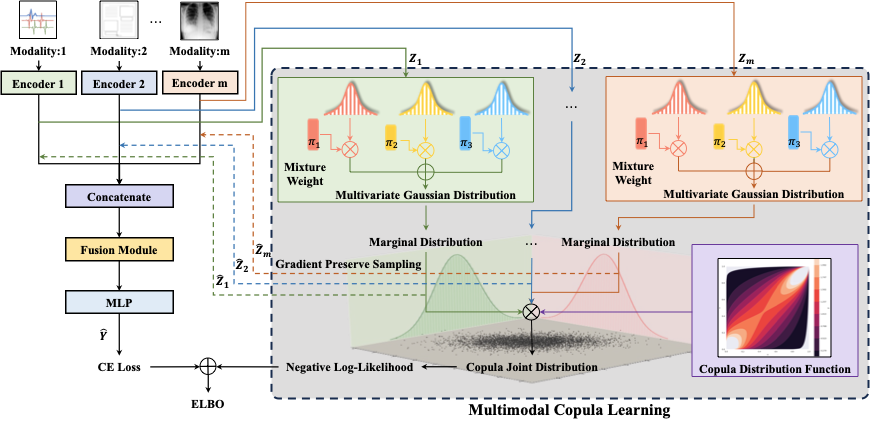
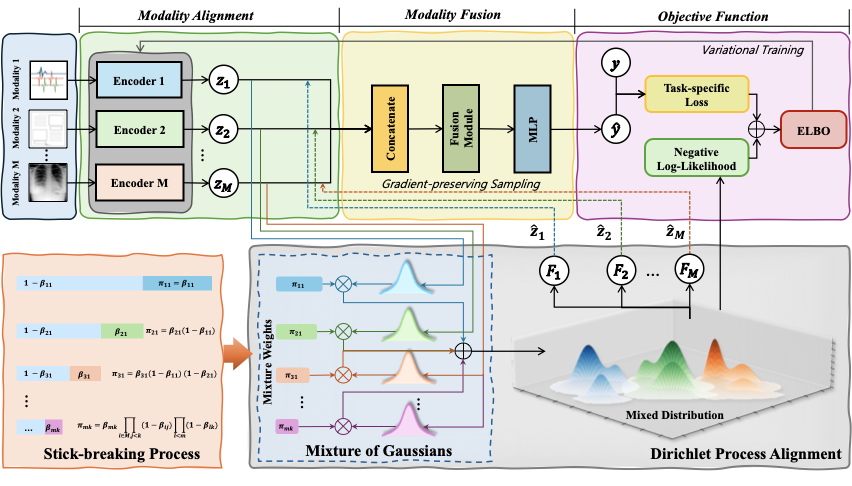
update readme

diff --git a/README.md b/README.md
@@ -1,4 +1,4 @@
-## Code for [CM$^2$](-): Cross-Modal Alignment via Variational Copula Modelling
+## Code for [DPMM](-): Amplifying Predictive Representations in Multimodal Learning  \\ via Variational Dirichlet Process
 
 
 Table of contents
@@ -19,10 +19,12 @@ Table of contents
 
 Background
 ============
-Multimodal learning aims to aggregate information from multiple modalities to generate meaningful representations for downstream tasks.The key challenge in multimodal learning is how to appropriately align the representations of respective modalities and fuse them into a joint distribution. Existing methods mainly focus on fusing the representations via concatenation or Kronecker product which over-simplify the interaction structure between modalities, prompting the need to model the complex interactions. On the other hand, the notion of joint distribution of the latent representations, which incorporates higher-order interactions between modalities, has been under-explored. Copula is a powerful statistical structure in modeling the interactions between variables as it bridges the joint distribution and the marginal distributions of multiple variables.
+eveloping effective multimodal fusion approaches has been increasingly essential as they demonstrate promising performance in many real-world scenarios, such as healthcare and finance. The key challenge is how to preserve the feature expressiveness in each modality while learning cross-modal interactions between the modalities. Previous approaches mainly focus on the cross-modal alignment,
+while over-emphasis on the alignment of marginal distributions of the modalities would impose excess regularization and hinder the significant representations within each modality. Dirichlet process (DP) is a powerful Bayesian non-parametric model that can amplify the most prominent features by its richer-gets-richer property, which allocates increasing weights to them. Inspired by this, we propose a novel DP-driven multimodal learning framework to automatically optimize the tradeoff between learn
+ing prominent intra-modal representation and cross-modal alignment. Specifically, we assume a mixture of multivariate Gaussian distribution for each modality and propose to calculate the mixture weights of all mixture components with DP. Therefore, DP can dynamically allocate the contributions of features and select the prominent features by its richer-gets-richer property. Extensive experiments on clinical and general multimodal datasets demonstrate the superior performance of our model over other competitors. Ablation analysis further validates the effectiveness of DP in aligning modality distributions and its robustness to changes in key hyperparameters
 
 
-Overview of the CM$^2$ network
+Overview of the DPMM network
 ====================================
 
 We first extract and link the datasets from MIMIC-IV, MIMIC-III and MIMIC-CXR based on the task definition (i.e., in hospital mortality prediction, or readmission prediction). The data splits of the training, validation, and test sets are summarized for each task, and the prevalence of positive and negative labels for in-hospital mortality and readmission is shown in 
@@ -33,9 +35,9 @@ Environment setup
 ==================
 
     git clone xxx
-    cd CMCM
+    cd DPMM
     conda env create -f environment.yml
-    conda activate CMCM
+    conda activate DPMM
 
 Dataset
 -------------
@@ -58,7 +60,7 @@ python creat_section_files.py # extract sections form radiology report
 
 before training the modal, the directories paths of dataset should be like:
 ```
-CMCM
+DPMM
 |── data_mimic3
 │   |── train_text_fixed
 │   |── test_text_fixed
@@ -118,11 +120,11 @@ The "paired" are only the icu stays with both ehr as well as cxr samples (along 
 
 Argument "data_pairs" takes any of these options 'paired_ehr_cxr' samples all modalities(ehr+cxr, or ehr+cxr+report) for paired icu stays, 'partial_ehr_cxr' samples both ehr and cxr for partial icu stays, 'paired_ehr_cnote' samples both modalities(ehr+note) for paired icu stays, 'partial_ehr_note' samples both ehr and note for partial icu stays, 
 
-Argument 'fusion_type' defines the fusion baselines and our proposed approach, options include 'daft', 'mmtm', 'medfuse', 'unified', 'defuse', 'copula'.
+Argument 'fusion_type' defines the fusion baselines and our proposed approach, options include 'daft', 'mmtm', 'medfuse', 'unified', 'defuse', 'dp'.
 
 Please refer to arguments.py for further configurations.
 
-Overview of the network with CM$^2$ module
+Overview of the network with DPMM module
 ====================================
 ![](figures/framework.png)
 
@@ -130,21 +132,21 @@ Model training
 -----------------
 
 ```
-# copula learning on partially matched dataset
-sh ./scripts/mortality/mimic3/partial/copula.sh # IHM task on MIMIC-III
-sh ./scripts/readmission/mimic3/partial/copula.sh # READM task on MIMIC-III
-sh ./scripts/mortality/mimic4/partial/copula.sh # IHM task on MIMIC-IV
-sh ./scripts/readmission/mimic4/partial/copula.sh # READM task on MIMIC-IV
+# dp learning on partially matched dataset
+sh ./scripts/mortality/mimic3/partial/dp.sh # IHM task on MIMIC-III
+sh ./scripts/readmission/mimic3/partial/dp.sh # READM task on MIMIC-III
+sh ./scripts/mortality/mimic4/partial/dp.sh # IHM task on MIMIC-IV
+sh ./scripts/readmission/mimic4/partial/dp.sh # READM task on MIMIC-IV
 
-# copula learning on fully matched dataset
-sh ./scripts/mortality/mimic3/paired/copula.sh # IHM task on MIMIC-III
-sh ./scripts/readmission/mimic3/paired/copula.sh # READM task on MIMIC-III
-sh ./scripts/mortality/mimic4/paired/copula.sh # IHM task on MIMIC-IV
-sh ./scripts/readmission/mimic4/paired/copula.sh # READM task on MIMIC-IV
+# dp learning on fully matched dataset
+sh ./scripts/mortality/mimic3/paired/dp.sh # IHM task on MIMIC-III
+sh ./scripts/readmission/mimic3/paired/dp.sh # READM task on MIMIC-III
+sh ./scripts/mortality/mimic4/paired/dp.sh # IHM task on MIMIC-IV
+sh ./scripts/readmission/mimic4/paired/dp.sh # READM task on MIMIC-IV
 
-# copula learning on tri-modal dataset
-sh ./scripts/mortality/mimic4/triple/copula.sh # IHM task on MIMIC-IV
-sh ./scripts/readmission/mimic4/triple/copula.sh # READM task on MIMIC-IV
+# dp learning on tri-modal dataset
+sh ./scripts/mortality/mimic4/triple/dp.sh # IHM task on MIMIC-IV
+sh ./scripts/readmission/mimic4/triple/dp.sh # READM task on MIMIC-IV
 ```
 We provide the training and evaluation scripts inside 'scripts' directory for other baselines as well for the results reported in the paper. 
 
@@ -152,21 +154,21 @@ Model evaluation
 ------------------
 Set the 'load_state' to the best model checkpoint path from above experiments before running the following scripts.
 ```
-# copula learning on partially matched dataset
-sh ./scripts/mortality/eval/mimic3/partial/copula.sh # IHM task on MIMIC-III
-sh ./scripts/readmission/eval/mimic3/partial/copula.sh # READM task on MIMIC-III
-sh ./scripts/mortality/eval/mimic4/partial/copula.sh # IHM task on MIMIC-IV
-sh ./scripts/readmission/eval/mimic4/partial/copula.sh # READM task on MIMIC-IV
+# dp learning on partially matched dataset
+sh ./scripts/mortality/eval/mimic3/partial/dp.sh # IHM task on MIMIC-III
+sh ./scripts/readmission/eval/mimic3/partial/dp.sh # READM task on MIMIC-III
+sh ./scripts/mortality/eval/mimic4/partial/dp.sh # IHM task on MIMIC-IV
+sh ./scripts/readmission/eval/mimic4/partial/dp.sh # READM task on MIMIC-IV
 
-# copula learning on fully matched dataset
-sh ./scripts/mortality/eval/mimic3/paired/copula.sh # IHM task on MIMIC-III
-sh ./scripts/readmission/eval/mimic3/paired/copula.sh # READM task on MIMIC-III
-sh ./scripts/mortality/eval/mimic4/paired/copula.sh # IHM task on MIMIC-IV
-sh ./scripts/readmission/eval/mimic4/paired/copula.sh # READM task on MIMIC-IV
+# dp learning on fully matched dataset
+sh ./scripts/mortality/eval/mimic3/paired/dp.sh # IHM task on MIMIC-III
+sh ./scripts/readmission/eval/mimic3/paired/dp.sh # READM task on MIMIC-III
+sh ./scripts/mortality/eval/mimic4/paired/dp.sh # IHM task on MIMIC-IV
+sh ./scripts/readmission/eval/mimic4/paired/dp.sh # READM task on MIMIC-IV
 
-# copula learning on tri-modal dataset
-sh ./scripts/mortality/eval/mimic4/triple/copula.sh # IHM task on MIMIC-IV
-sh ./scripts/readmission/eval/mimic4/triple/copula.sh # READM task on MIMIC-IV
+# dp learning on tri-modal dataset
+sh ./scripts/mortality/eval/mimic4/triple/dp.sh # IHM task on MIMIC-IV
+sh ./scripts/readmission/eval/mimic4/triple/dp.sh # READM task on MIMIC-IV
 ```
 
 Citation 
